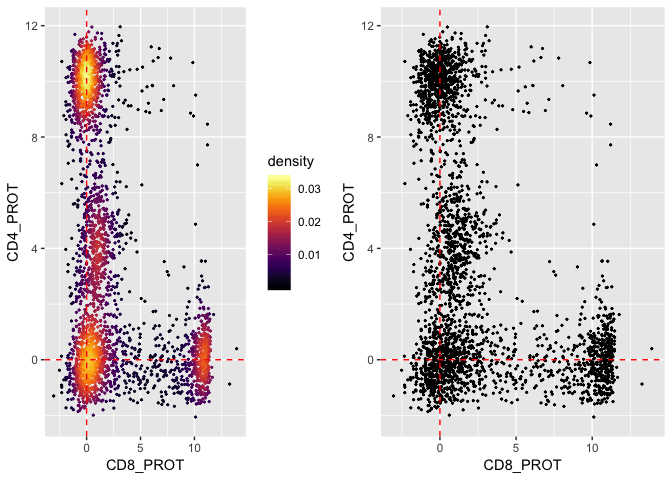
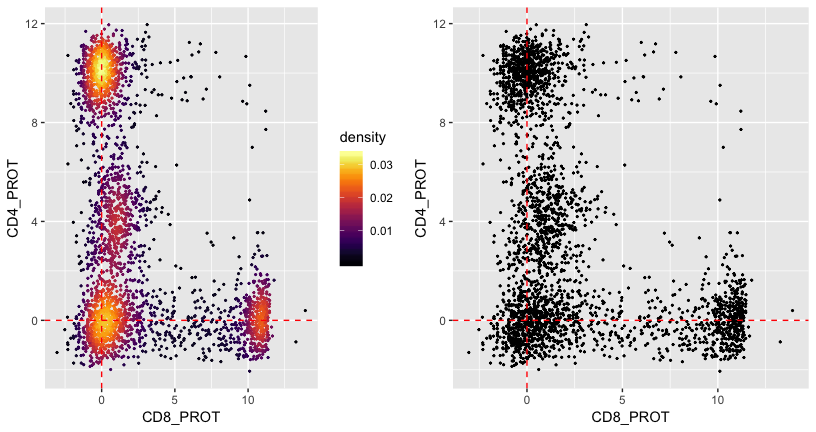
fix readme

diff --git a/README.md b/README.md
@@ -79,7 +79,7 @@ plot raw points (overplotted) and points with labeled density
 distributions (similar to
 flow)
 
-``` rfig
+``` r
 # plot this and avoid plotting by adding a density gradient like a flowjo plot
 # this nice density function is from here: https://slowkow.com/notes/ggplot2-color-by-density/
 get_density = function(x, y, ...) {
@@ -111,31 +111,28 @@ p2 = ggplot(data.plot, aes(x = CD8_PROT, y = CD4_PROT)) +
 cowplot::plot_grid(p1,p2)
 ```
 
+<img src="man/figures/README-unnamed-chunk-4-1.png" width="100%" />
+
 The plots above show the actual protein distributions. There is no
 artificial jitter added to points.
 
-## How do I get the empty droplets?
+\#How do I get the empty droplets?
 
 there are a number of ways to get the empty drops. If you are using cell
 hashing, when you demultiplex the cells, you get a vector of empty or
-Negative
-droplets.
+Negative droplets.
 
-# HTODemux function in Seurat:
-
+HTODemux function in Seurat:
 <https://satijalab.org/seurat/v3.1/hashing_vignette.html>
 
-# deMULTIplex function from Multiseq (this is now also implemented in Seurat).
+deMULTIplex function from Multiseq (this is now also implemented in
+Seurat). <https://github.com/chris-mcginnis-ucsf/MULTI-seq>
 
-<https://github.com/chris-mcginnis-ucsf/MULTI-seq>
-
-# If you’re not multiplexing
-
-you can simply get a vector of negative droplets from the cells you
-would remove.
+If you’re not multiplexing you can simply get a vector of negative
+droplets from the cells you would remove.
 <https://genomebiology.biomedcentral.com/articles/10.1186/s13059-019-1662-y>
 
-# Here is a simple example workflow with a Seurat Version 3 object
+## Simple example workflow (Seurat Version 3)
 
 ``` r
 
@@ -173,7 +170,7 @@ better with more negative droplets. This will also have the advantage of
 creating more droplets to use as built protein background controls in
 the DSB function.
 
-# Here is an example workflow with a Seurat Version 2 object
+## example workflow Seurat version 2
 
 ``` r
 
